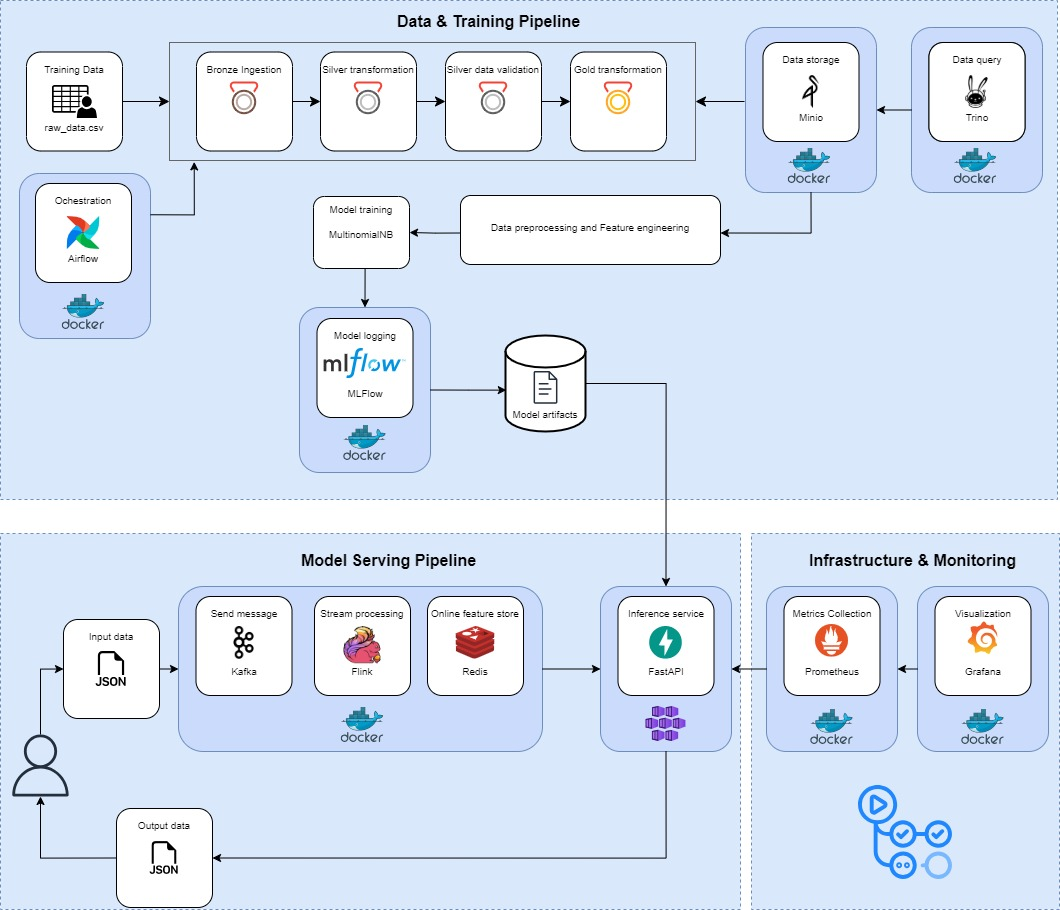
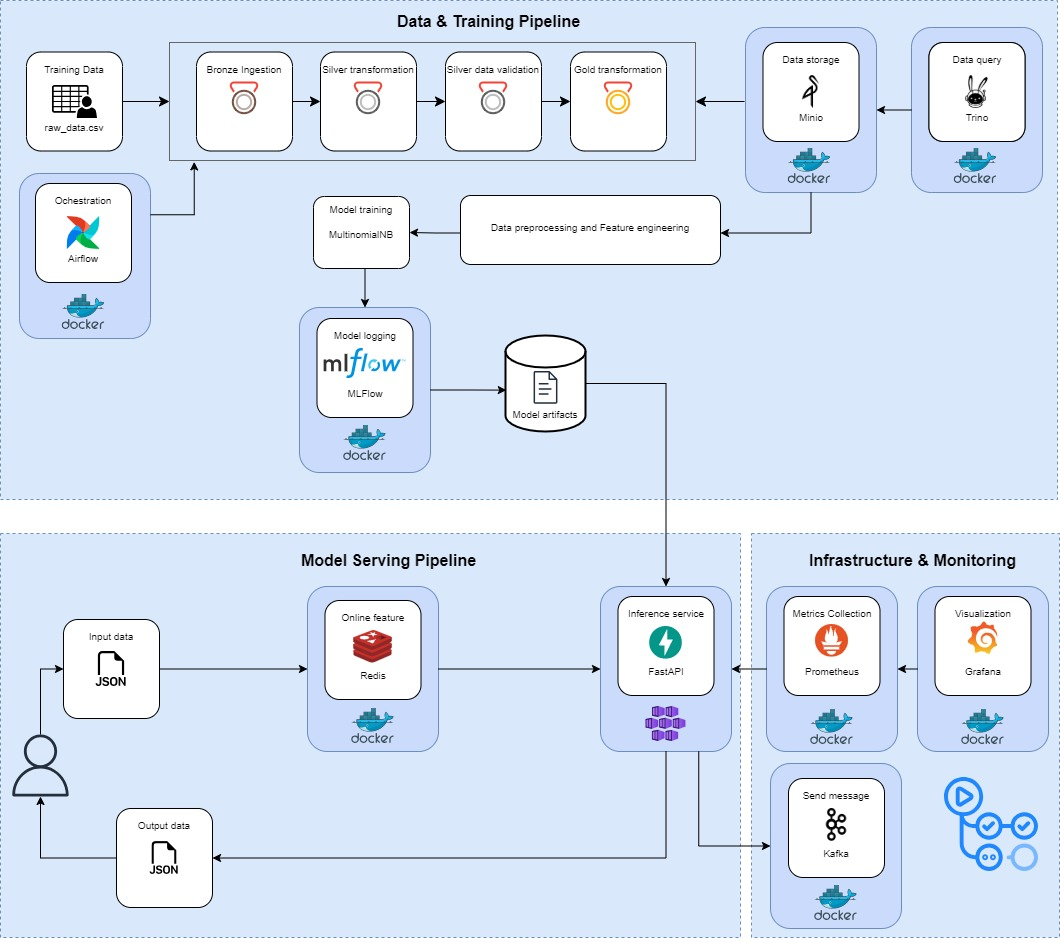
fix: redesign kafka and redis architecture

diff --git a/test.py b/test.py
@@ -1,82 +1,82 @@
-# import os
+import os
 
-# IGNORE_FOLDERS = {
-#     "venv", "__pycache__", ".vscode", "mlruns", "mlartifacts", "static",
-#     "shap_plot", "tmp", "jars", ".git", "postgres-data", "images",
-#     ".minio.sys", "warehouse", "mlflow-artifacts", "metadata"
-# }
-# IGNORE_FILES = {".DS_Store", ".env", "generate_tree.py", "architecture.png"}
+IGNORE_FOLDERS = {
+    "venv", "__pycache__", ".vscode", "mlruns", "mlartifacts", "static",
+    "shap_plot", "tmp", "jars", ".git", "postgres-data", "images",
+    ".minio.sys", "warehouse", "mlflow-artifacts", "metadata"
+}
+IGNORE_FILES = {".DS_Store", ".env", "generate_tree.py", "architecture.png"}
 
-# INCLUDE_EXTENSIONS = {".py", ".yml", ".yaml"}
-# INCLUDE_FILENAMES = {"Dockerfile", "requirements.txt"}
+INCLUDE_EXTENSIONS = {".py", ".yml", ".yaml"}
+INCLUDE_FILENAMES = {"Dockerfile", "requirements.txt"}
 
-# IGNORE_EXTENSIONS = {".parquet", ".csv", ".json", ".txt", ".log", ".lock", ".iml", ".xml", ".md", ".avro", ".bin", ".png", ".html", ".pkl"}
+IGNORE_EXTENSIONS = {".parquet", ".csv", ".json", ".txt", ".log", ".lock", ".iml", ".xml", ".md", ".avro", ".bin", ".png", ".html", ".pkl"}
 
-# # Folders to show but not expand deeper
-# SHALLOW_FOLDERS = {"data"}
+# Folders to show but not expand deeper
+SHALLOW_FOLDERS = {"data"}
 
-# def tree(dir_path, prefix="", shallow=False):
-#     if shallow:
-#         return
+def tree(dir_path, prefix="", shallow=False):
+    if shallow:
+        return
 
-#     entries = sorted(os.listdir(dir_path))
+    entries = sorted(os.listdir(dir_path))
 
-#     filtered = []
-#     for entry in entries:
-#         if entry in IGNORE_FOLDERS or entry in IGNORE_FILES:
-#             continue
-#         path = os.path.join(dir_path, entry)
-#         ext = os.path.splitext(entry)[1]
-#         if os.path.isdir(path):
-#             filtered.append(entry)
-#         elif ext in IGNORE_EXTENSIONS:
-#             continue
-#         elif entry in INCLUDE_FILENAMES or ext in INCLUDE_EXTENSIONS:
-#             filtered.append(entry)
+    filtered = []
+    for entry in entries:
+        if entry in IGNORE_FOLDERS or entry in IGNORE_FILES:
+            continue
+        path = os.path.join(dir_path, entry)
+        ext = os.path.splitext(entry)[1]
+        if os.path.isdir(path):
+            filtered.append(entry)
+        elif ext in IGNORE_EXTENSIONS:
+            continue
+        elif entry in INCLUDE_FILENAMES or ext in INCLUDE_EXTENSIONS:
+            filtered.append(entry)
 
-#     pointers = ["├── "] * (len(filtered) - 1) + ["└── "]
+    pointers = ["├── "] * (len(filtered) - 1) + ["└── "]
 
-#     for pointer, entry in zip(pointers, filtered):
-#         path = os.path.join(dir_path, entry)
-#         print(prefix + pointer + entry)
-#         if os.path.isdir(path):
-#             extension = "│   " if pointer == "├── " else "    "
-#             is_shallow = entry in SHALLOW_FOLDERS
-#             tree(path, prefix + extension, shallow=is_shallow)
+    for pointer, entry in zip(pointers, filtered):
+        path = os.path.join(dir_path, entry)
+        print(prefix + pointer + entry)
+        if os.path.isdir(path):
+            extension = "│   " if pointer == "├── " else "    "
+            is_shallow = entry in SHALLOW_FOLDERS
+            tree(path, prefix + extension, shallow=is_shallow)
 
-# if __name__ == "__main__":
-#     tree(".")
+if __name__ == "__main__":
+    tree(".")
 
-from locust import HttpUser, task, between
-import uuid
+# from locust import HttpUser, task, between
+# import uuid
 
-MESSAGES = [
-    "You are so stupid",
-    "Have a great day",
-    "I hate you",
-    "Thank you so much",
-    "You are worthless",
-]
+# MESSAGES = [
+#     "You are so stupid",
+#     "Have a great day",
+#     "I hate you",
+#     "Thank you so much",
+#     "You are worthless",
+# ]
 
-class ToxicityUser(HttpUser):
-    wait_time = between(1, 3)
-    counter = 0
+# class ToxicityUser(HttpUser):
+#     wait_time = between(1, 3)
+#     counter = 0
 
-    @task
-    def predict(self):
-        msg = MESSAGES[ToxicityUser.counter % len(MESSAGES)]
-        ToxicityUser.counter += 1
+#     @task
+#     def predict(self):
+#         msg = MESSAGES[ToxicityUser.counter % len(MESSAGES)]
+#         ToxicityUser.counter += 1
 
-        with self.client.post("/predict", params={
-            "user_id": str(uuid.uuid4())[:8],
-            "message": msg
-        }, catch_response=True) as response:
-            try:
-                data = response.json()
-                if "toxicity_label" not in data or "toxicity_probability" not in data:
-                    response.failure(f"Missing fields: {data}")
-                else:
-                    print(f"msg='{msg[:30]}' label={data['toxicity_label']} prob={data['toxicity_probability']:.3f}")
-                    response.success()
-            except Exception as e:
-                response.failure(f"Invalid JSON: {e}")
+#         with self.client.post("/predict", params={
+#             "user_id": str(uuid.uuid4())[:8],
+#             "message": msg
+#         }, catch_response=True) as response:
+#             try:
+#                 data = response.json()
+#                 if "toxicity_label" not in data or "toxicity_probability" not in data:
+#                     response.failure(f"Missing fields: {data}")
+#                 else:
+#                     print(f"msg='{msg[:30]}' label={data['toxicity_label']} prob={data['toxicity_probability']:.3f}")
+#                     response.success()
+#             except Exception as e:
+#                 response.failure(f"Invalid JSON: {e}")

diff --git a/README.md b/README.md
@@ -4,7 +4,8 @@
 A production-grade machine learning system for real-time toxicity comment prediction. The system ingests comments via a REST API, processes them through a real-time feature pipeline, and returns toxicity predictions using a trained classifier registered in MLflow.
 
 - **Real-time prediction** — sub-second toxicity scoring via REST API
-- **Streaming feature pipeline** — Kafka → Flink → Redis for online feature serving
+- **Streaming feature pipeline** —  Redis for online feature serving (spam detection)
+- **Monitoring prediction** - Using Kafka for sending prediction result for data drift detection, Prometheus and Grafana for metrics monitoring 
 - **Batch data pipeline** — Airflow + Spark for bronze → silver → gold data transformation
 - **Experiment tracking** — MLflow for model versioning and registry
 - **Cloud-native serving** — FastAPI deployed on AKS with auto-scaling
@@ -53,10 +54,6 @@ A production-grade machine learning system for real-time toxicity comment predic
 │       └── etc
 │           └── catalog
 ├── data
-├── flink
-│   ├── Dockerfile
-│   ├── docker-compose.yml
-│   └── streaming_to_gold.py
 ├── k8s
 │   ├── 00-secrets.yaml
 │   ├── 01-fastapi-local.yaml
@@ -76,13 +73,16 @@ A production-grade machine learning system for real-time toxicity comment predic
 ├── monitoring
 │   ├── docker-compose.yml
 │   └── prometheus.yml
+├── redis
+│   └── docker-compose.yml
 ├── serving
-    └── fastapi
-        ├── Dockerfile
-        ├── app.py
-        ├── docker-compose.yml
-        ├── feature_store.py
-        └── text_processor.py
+│   └── fastapi
+│       ├── Dockerfile
+│       ├── app.py
+│       ├── docker-compose.yml
+│       ├── fastapi-env.yaml
+│       └── text_processor.py
+└── test.py
 ```
 
 # Local
@@ -97,8 +97,8 @@ cd airflow && docker compose up -d
 # Start Kafka
 cd kafka && docker compose up -d
 
-# Start Flink feature store
-cd flink && docker compose up -d
+# Start Redis feature store
+cd redis && docker compose up -d
 
 # Start MLflow
 cd ml && docker compose up -d
